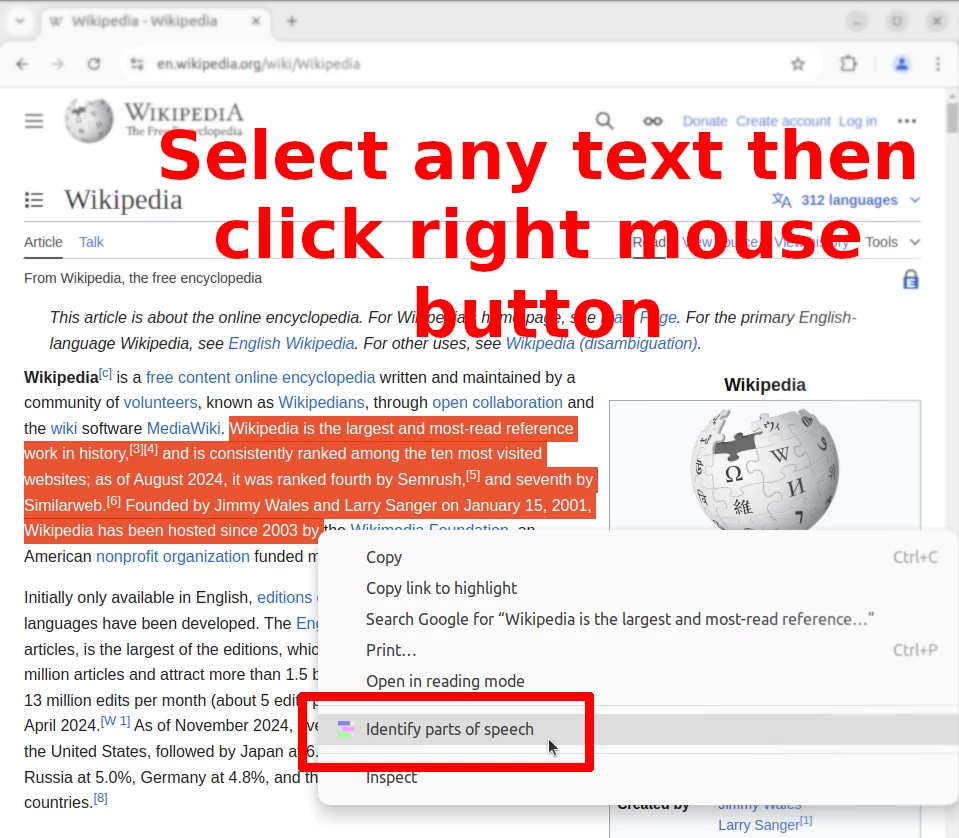
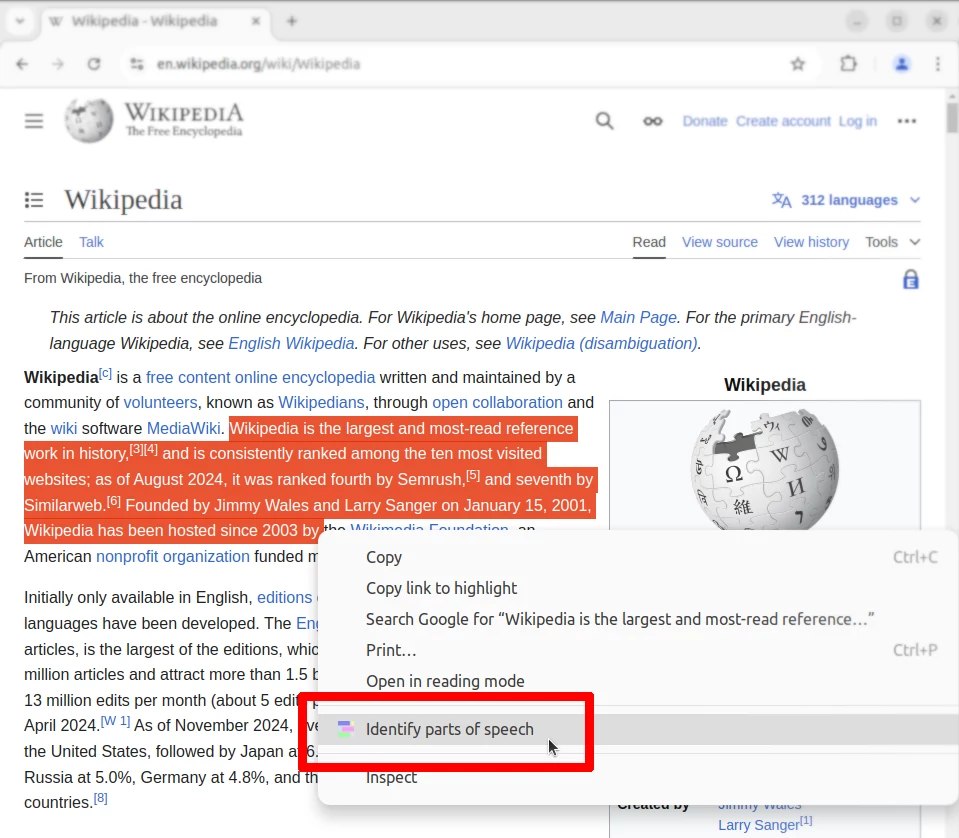
upd

Changed region(s): [[0.1512, 0.1551, 0.9072, 0.4033], [0.7862, 0.1551, 0.9677, 0.2172], [0.2117, 0.2482, 0.3931, 0.3103]]

diff --git a/welcome.html b/welcome.html
@@ -7,15 +7,12 @@
     <link href="https://cdn.jsdelivr.net/npm/bootstrap@5.3.3/dist/css/bootstrap.min.css" rel="stylesheet" integrity="sha384-QWTKZyjpPEjISv5WaRU9OFeRpok6YctnYmDr5pNlyT2bRjXh0JMhjY6hW+ALEwIH" crossorigin="anonymous">
   </head>
   <body>
-    <div class="container my-5 py-5">
+    <div class="container my-5 text-center">
         <h1>Welcome!</h1>
         <h1>Part of Speech Identifier has been installed 🎉</h1>
-
-        <!-- <video autoplay muted playsinline loop class="col-8">
-          <source src="./instruction.webm" type="video/webm">
-          Your browser does not support the video tag.
-        </video> -->
-        <img class="col-6" src="./new-welcome-page-instruction.webp" alt="" srcset="">
+        <br> 
+        <h3>Select any text then click right mouse button like this:</h3>
+        <img class="col-lg-6 col-md-9 col-12 rounded" src="./new-welcome-page-instruction.webp" alt="" srcset="">
     </div>
     <!-- Google tag (gtag.js) -->
     <script async src="https://www.googletagmanager.com/gtag/js?id=G-NGXH22WCZ6"></script>
